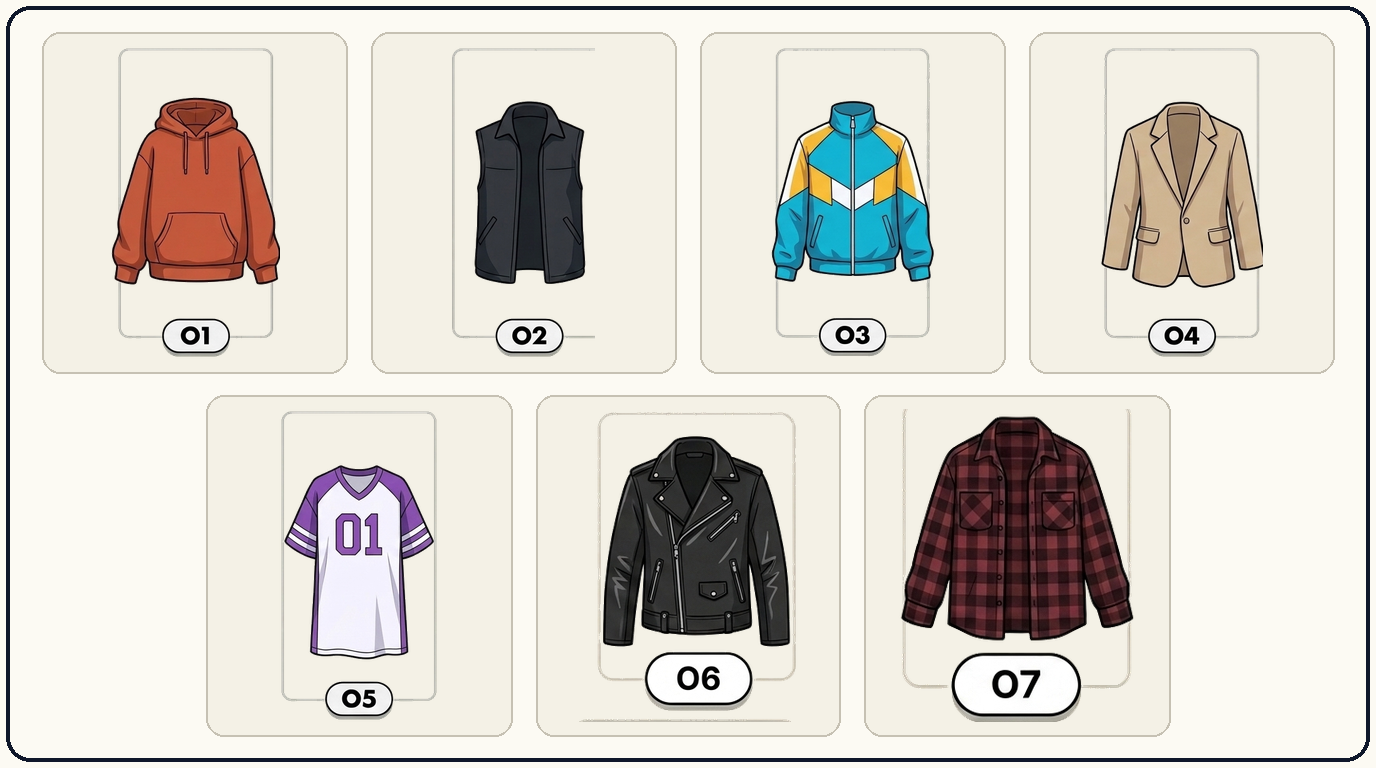
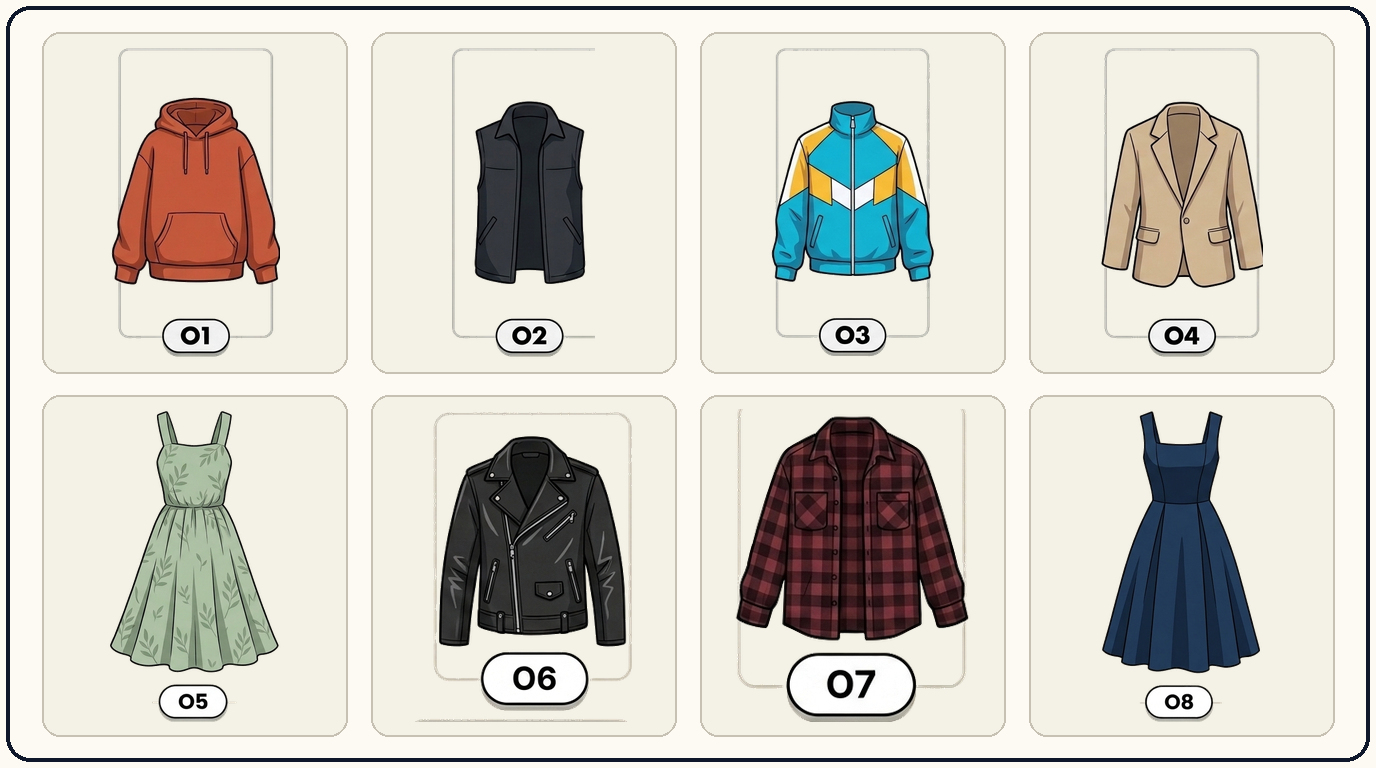
feat: reclasificar O5 a T7 en Superiores e incluir vestidos casual (O5) y formal (O8)

diff --git a/index.html b/index.html
@@ -828,7 +828,7 @@
         <div class="brand-badge">🧵</div>
         <div>
           <h1>Hilo Nativo · Votación Catálogo v8.0</h1>
-          <p>Árbol compacto genderless (<span id="headerCountLabel">29</span> ítems · <span id="headerStylesLabel">5</span> estilos) — Revisión y votación del equipo</p>
+          <p>Árbol compacto genderless (<span id="headerCountLabel">31</span> ítems · <span id="headerStylesLabel">5</span> estilos) — Revisión y votación del equipo</p>
         </div>
       </div>
 
@@ -852,10 +852,10 @@
       <div class="comic-card stat-panel">
         <div class="stat-title">Resumen del Voto (<span id="currentVoterLabel">Cristian</span>)</div>
         <div class="kpi-row">
-          <span class="kpi-chip ok">✅ Aprobadas: <strong id="countApprove">0</strong>/<span id="totalCatalogLabel">29</span></span>
+          <span class="kpi-chip ok">✅ Aprobadas: <strong id="countApprove">0</strong>/<span id="totalCatalogLabel">31</span></span>
           <span class="kpi-chip adj">✏ Ajustar: <strong id="countAdjust">0</strong></span>
           <span class="kpi-chip no">❌ Descartadas: <strong id="countDiscard">0</strong></span>
-          <span class="kpi-chip pend">⏳ Pendientes: <strong id="countPending">29</strong></span>
+          <span class="kpi-chip pend">⏳ Pendientes: <strong id="countPending">31</strong></span>
         </div>
       </div>
 
@@ -906,7 +906,7 @@
     <!-- Barra de Resultados y Limpieza de Filtros de Vista -->
     <div class="results-bar" id="resultsBar">
       <div class="results-meta">
-        <span>Mostrando <strong id="visibleCountLabel">29</strong> de <strong id="resultsTotalLabel">29</strong> prendas</span>
+        <span>Mostrando <strong id="visibleCountLabel">31</strong> de <strong id="resultsTotalLabel">31</strong> prendas</span>
         <span id="activeFiltersSummary" style="color:var(--ink-muted); font-weight:600;"></span>
       </div>
       <button type="button" class="pill-btn" id="btnClearViewFilters" style="display:none; padding:5px 12px; font-size:0.8rem;">
@@ -939,7 +939,7 @@
         <h2>📤 Consolidar y Exportar mi Votación (<span id="partnerExportVoterLabel">Socio</span>)</h2>
       </div>
       <p style="margin:0 0 12px; font-size:0.88rem; color:var(--ink-muted);">
-        Cuando termines de revisar las <span id="partnerCountLabel">29</span> prendas y escribir tus comentarios o propuestas, consolida y descarga tu archivo de votación:
+        Cuando termines de revisar las <span id="partnerCountLabel">31</span> prendas y escribir tus comentarios o propuestas, consolida y descarga tu archivo de votación:
       </p>
 
       <div class="export-controls" style="margin-top:0;">
@@ -1044,21 +1044,22 @@
 
       const SHEETS = [
         { id: 'overview', label: '🌟 5 Estilos (Avatares)', src: 'assets/styles_overview.png', title: 'Vista General: 5 Pilares Estéticos en Avatares de Medellín' },
-        { id: 'top', label: '👕 Superiores (T1–T6)', src: 'assets/sheet_tops.png', title: 'Lámina Prendas Superiores — Camisetas, Crop Top, Jersey, Camisa y Banda (T1–T6)' },
+        { id: 'top', label: '👕 Superiores (T1–T7)', src: 'assets/sheet_tops.png', title: 'Lámina Prendas Superiores — Camisetas, Crop Top, Jerseys, Camisa y Banda (T1–T7)' },
         { id: 'bottom', label: '👖 Inferiores (B1–B6)', src: 'assets/sheet_bottoms.png', title: 'Lámina Prendas Inferiores — Jeans, Cargo, Recto, Falda, Jogger y Ripped (B1–B6)' },
-        { id: 'outerwear', label: '🧥 Chaquetas y Piezas (O1–O7)', src: 'assets/sheet_outerwear.png', title: 'Lámina Chaquetas y Piezas Completas — Hoodie, Chaleco, Cortavientos, Blazer, Vestido, Biker y Franela (O1–O7)' },
+        { id: 'outerwear', label: '🧥 Chaquetas y Piezas (O1–O8)', src: 'assets/sheet_outerwear.png', title: 'Lámina Chaquetas y Piezas Completas — Hoodie, Chaleco, Cortavientos, Blazer, Vestidos, Biker y Franela (O1–O8)' },
         { id: 'footwear', label: '👟 Calzado (S1–S5)', src: 'assets/sheet_footwear.png', title: 'Lámina Calzado — Chunky, Skate, Runner, Botas y Lona Alta (S1–S5)' },
         { id: 'accessory', label: '🕶 Accesorios (A1–A5)', src: 'assets/sheet_accessories.png', title: 'Lámina Accesorios — Gorra, Gafas, Bandolera, Beanie y Cinturón/Cadena (A1–A5)' }
       ];
 
       // Coordenadas exactas medidas sobre las 5 láminas unificadas PNG (1376x768)
       const CROP_BOXES = {
-        T1: { x0: 0.0305, y0: 0.0417, w: 0.3014, h: 0.4440 },
-        T2: { x0: 0.3493, y0: 0.0417, w: 0.3014, h: 0.4440 },
-        T3: { x0: 0.6681, y0: 0.0417, w: 0.3014, h: 0.4440 },
-        T4: { x0: 0.0305, y0: 0.5143, w: 0.3014, h: 0.4440 },
-        T5: { x0: 0.3493, y0: 0.5143, w: 0.3014, h: 0.4440 },
-        T6: { x0: 0.6681, y0: 0.5143, w: 0.3014, h: 0.4440 },
+        T1: { x0: 0.0305, y0: 0.0417, w: 0.2217, h: 0.4440 },
+        T2: { x0: 0.2696, y0: 0.0417, w: 0.2217, h: 0.4440 },
+        T3: { x0: 0.5087, y0: 0.0417, w: 0.2217, h: 0.4440 },
+        T4: { x0: 0.7478, y0: 0.0417, w: 0.2217, h: 0.4440 },
+        T5: { x0: 0.1501, y0: 0.5143, w: 0.2217, h: 0.4440 },
+        T6: { x0: 0.3892, y0: 0.5143, w: 0.2217, h: 0.4440 },
+        T7: { x0: 0.6283, y0: 0.5143, w: 0.2217, h: 0.4440 },
 
         B1: { x0: 0.0305, y0: 0.0417, w: 0.3014, h: 0.4440 },
         B2: { x0: 0.3493, y0: 0.0417, w: 0.3014, h: 0.4440 },
@@ -1071,9 +1072,10 @@
         O2: { x0: 0.2696, y0: 0.0417, w: 0.2217, h: 0.4440 },
         O3: { x0: 0.5087, y0: 0.0417, w: 0.2217, h: 0.4440 },
         O4: { x0: 0.7478, y0: 0.0417, w: 0.2217, h: 0.4440 },
-        O5: { x0: 0.1501, y0: 0.5143, w: 0.2217, h: 0.4440 },
-        O6: { x0: 0.3892, y0: 0.5143, w: 0.2217, h: 0.4440 },
-        O7: { x0: 0.6283, y0: 0.5143, w: 0.2217, h: 0.4440 },
+        O5: { x0: 0.0305, y0: 0.5143, w: 0.2217, h: 0.4440 },
+        O6: { x0: 0.2696, y0: 0.5143, w: 0.2217, h: 0.4440 },
+        O7: { x0: 0.5087, y0: 0.5143, w: 0.2217, h: 0.4440 },
+        O8: { x0: 0.7478, y0: 0.5143, w: 0.2217, h: 0.4440 },
 
         S1: { x0: 0.0305, y0: 0.0417, w: 0.3014, h: 0.4440 },
         S2: { x0: 0.3493, y0: 0.0417, w: 0.3014, h: 0.4440 },

diff --git a/data/catalog_garments.js b/data/catalog_garments.js
@@ -496,6 +496,36 @@ window.HN_CATALOG_DATA = {
       "is_reference_aesthetic": false
     },
     {
+      "id": "T7",
+      "slug": "camiseta-jersey-sporty-oversize",
+      "slot": "top",
+      "name": "Camiseta Jersey Sporty Oversize",
+      "short_label": "Camiseta Jersey",
+      "description": "Camiseta amplia tipo jersey universitario/deportivo en malla o algodón pesado para usar como prenda superior.",
+      "styles": [
+        "aesthetic_y2k",
+        "deportivo"
+      ],
+      "occasions": [
+        "estreno_navidad",
+        "fiesta_cita",
+        "diario_u"
+      ],
+      "weight_kg": 0.24,
+      "base_price_cop": 52000,
+      "allows_oversize": true,
+      "compatible_materials": [
+        "algodon_convencional",
+        "algodon_organico",
+        "poliester_virgen",
+        "rpet_reciclado"
+      ],
+      "sheet_image": "assets/sheet_tops.png",
+      "sheet_code": "T7",
+      "svg_layer_slot": "layer_top",
+      "is_reference_aesthetic": false
+    },
+    {
       "id": "B1",
       "slug": "jeans-baggy-wide-leg",
       "slot": "bottom",
@@ -783,28 +813,28 @@ window.HN_CATALOG_DATA = {
     },
     {
       "id": "O5",
-      "slug": "vestido-camisetero-sporty",
+      "slug": "vestido-casual-fluido",
       "slot": "outerwear",
-      "name": "Vestido Camisetero / Sporty",
-      "short_label": "Vestido Jersey",
-      "description": "Pieza completa holgada tipo jersey deportivo o camiseta extra larga abierta a todo avatar.",
+      "name": "Vestido Casual Fluido",
+      "short_label": "Vestido Casual",
+      "description": "Vestido femenino fresco de caída fluida y corte en A para clima cálido de Medellín, salidas y uso diario.",
       "styles": [
         "aesthetic_y2k",
-        "deportivo"
+        "urbano"
       ],
       "occasions": [
-        "estreno_navidad",
+        "diario_u",
         "fiesta_cita",
-        "diario_u"
+        "estreno_navidad"
       ],
-      "weight_kg": 0.32,
-      "base_price_cop": 62000,
-      "allows_oversize": true,
+      "weight_kg": 0.34,
+      "base_price_cop": 72000,
+      "allows_oversize": false,
       "compatible_materials": [
-        "algodon_convencional",
         "algodon_organico",
-        "poliester_virgen",
-        "rpet_reciclado"
+        "lino_canamo",
+        "algodon_convencional",
+        "mezcla_polialgodon"
       ],
       "sheet_image": "assets/sheet_outerwear.png",
       "sheet_code": "O5",
@@ -864,6 +894,36 @@ window.HN_CATALOG_DATA = {
       ],
       "sheet_image": "assets/sheet_outerwear.png",
       "sheet_code": "O7",
+      "svg_layer_slot": "layer_outer",
+      "is_reference_aesthetic": false
+    },
+    {
+      "id": "O8",
+      "slug": "vestido-formal-evento",
+      "slot": "outerwear",
+      "name": "Vestido Formal / Evento",
+      "short_label": "Vestido Formal",
+      "description": "Vestido femenino midi estructurado con corte elegante para grados, cenas especiales y eventos formales en el Valle de Aburrá.",
+      "styles": [
+        "casual_formal"
+      ],
+      "occasions": [
+        "graduacion_evento",
+        "estreno_navidad",
+        "fiesta_cita"
+      ],
+      "weight_kg": 0.48,
+      "base_price_cop": 115000,
+      "allows_oversize": false,
+      "compatible_materials": [
+        "lino_canamo",
+        "algodon_organico",
+        "poliester_virgen",
+        "rpet_reciclado",
+        "mezcla_polialgodon"
+      ],
+      "sheet_image": "assets/sheet_outerwear.png",
+      "sheet_code": "O8",
       "svg_layer_slot": "layer_outer",
       "is_reference_aesthetic": false
     },

diff --git a/README.md b/README.md
@@ -1,11 +1,11 @@
 # Hilo Nativo — Votación del Catálogo de Prendas (Juego 1 · v8.0)
 
-Aplicación web estática e interactiva para que los socios de **Hilo Nativo** (Cristian, John, Laura y Mileidy) evalúen los **29 ítems de prendas y accesorios** (cubriendo **5 pilares estéticos**: Urbano, Aesthetic Y2K, Deportivo, Casual-Formal y **Rockero / Alternativo**) propuestos para **"Vestidor de Impacto" (v8.0)**, dejen comentarios o propuestas nuevas y exporten directamente el *fixture* de datos compatible con Django (`python manage.py loaddata`).
+Aplicación web estática e interactiva para que los socios de **Hilo Nativo** (Cristian, John, Laura y Mileidy) evalúen los **31 ítems de prendas y accesorios** (cubriendo **5 pilares estéticos**: Urbano, Aesthetic Y2K, Deportivo, Casual-Formal y **Rockero / Alternativo**) propuestos para **"Vestidor de Impacto" (v8.0)**, dejen comentarios o propuestas nuevas y exporten directamente el *fixture* de datos compatible con Django (`python manage.py loaddata`).
 
 ## Flujo de Votación para Socios
 1. Abre el enlace publicado en **GitHub Pages** desde tu celular o computador.
 2. Selecciona tu nombre en la barra superior (`Cristian`, `John`, `Laura` o `Mileidy`).
-3. Revisa las **6 láminas ilustradas** (vista de 5 estilos y las 5 categorías unificadas en español: Superiores, Inferiores, Chaquetas y Piezas, Calzado y Accesorios) y vota uno a uno los 29 ítems (`✅ Aprobar`, `✏ Ajustar`, `❌ Descartar`) agregando notas si deseas cambios.
+3. Revisa las **6 láminas ilustradas** (vista de 5 estilos y las 5 categorías unificadas en español: Superiores, Inferiores, Chaquetas y Piezas, Calzado y Accesorios) y vota uno a uno los 31 ítems (`✅ Aprobar`, `✏ Ajustar`, `❌ Descartar`) agregando notas si deseas cambios.
 4. Si sugieres una prenda adicional o un ajuste general, escríbelo en la sección **"💡 Propuestas de nuevas prendas o comentarios generales"**.
 5. Al finalizar, pulsa **`📦 Consolidar y Exportar mi Votación (.json)`** y sube el archivo descargado a la carpeta `Votacion_Prendas` en Google Drive.
 
